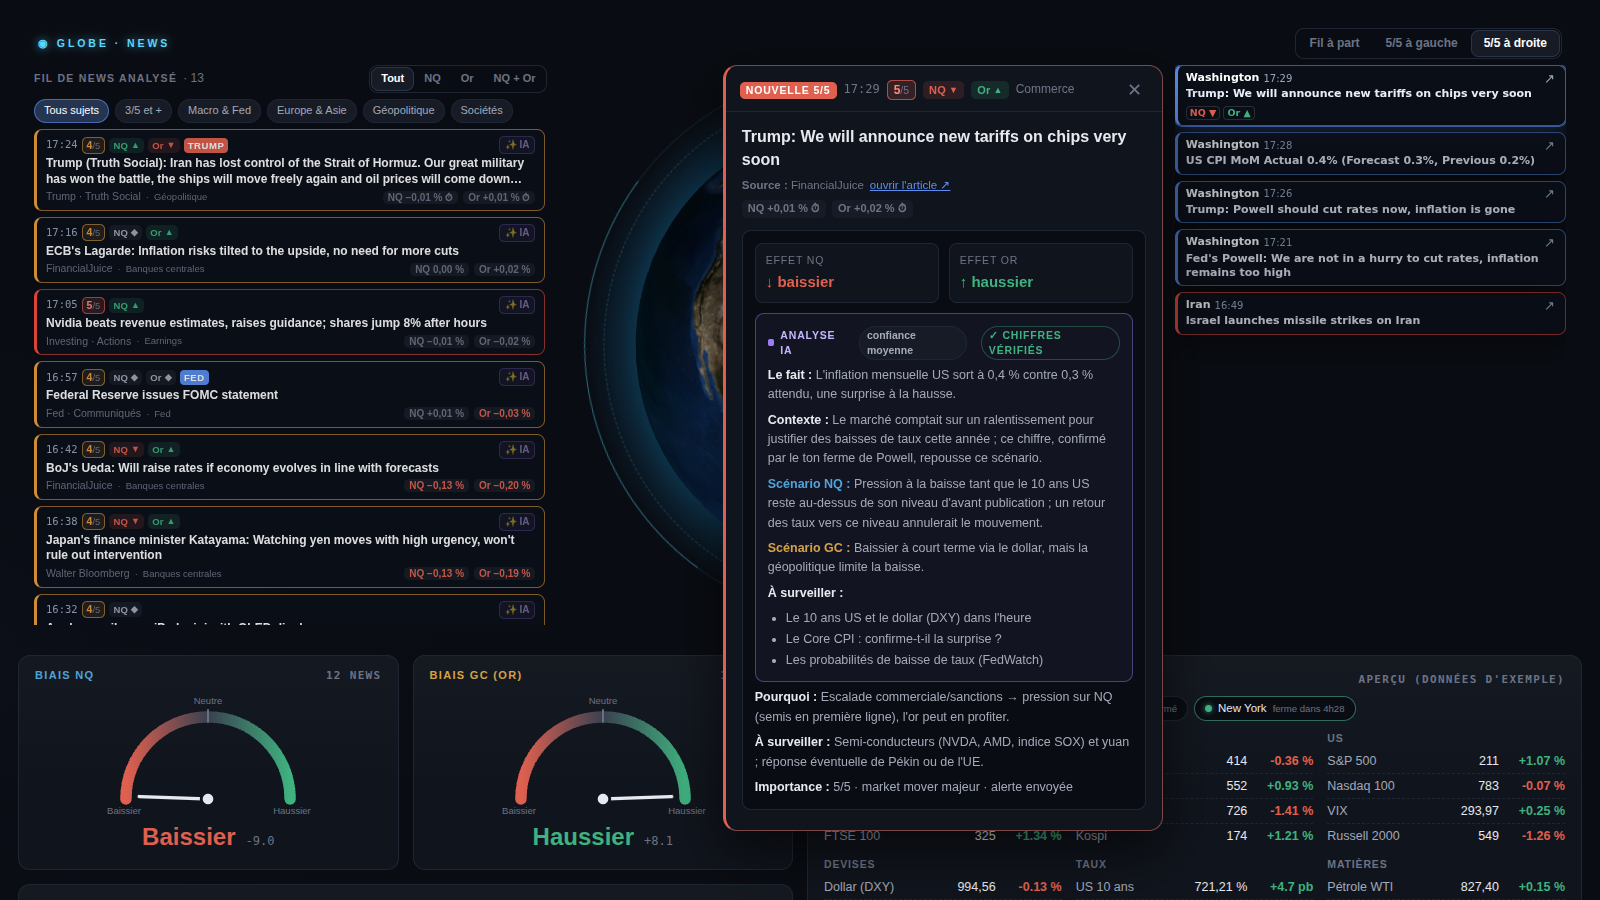
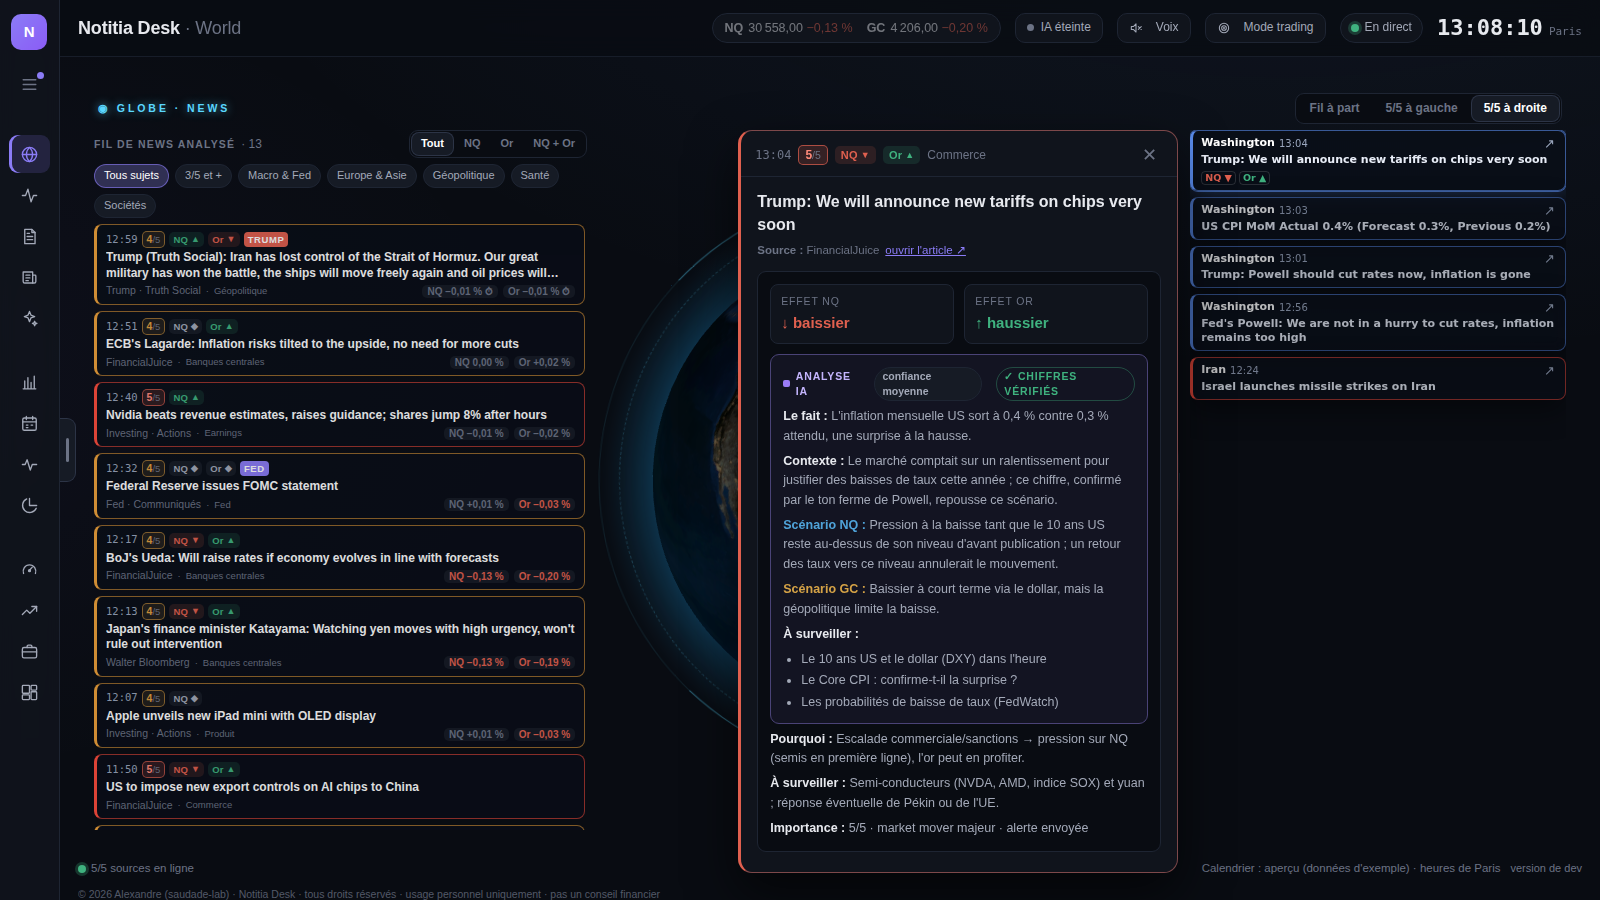
README refait : nouvelles pages (Pouls du marché, Hebdo, Taux directeurs, Biais), menu latéral et nouvelles captures
Claude-Session: https://claude.ai/code/session_01EiPMspAKR6DxkGDXLeGVq1

diff --git a/README.md b/README.md
@@ -3,111 +3,148 @@
 # Notitia Desk
 
 **Ton terminal de marché perso pour trader le Nasdaq (NQ) et l'or (GC).**
-Les news qui comptent, notées et expliquées en temps réel. Le calendrier éco, les banques centrales, les directs de Trump et de la Fed : tout est sur un seul écran.
+Les news qui comptent, notées et expliquées en temps réel. Le calendrier éco, les banques centrales, le risque du moment et le bilan de chaque semaine, chacun à sa place dans un seul desk.
 
-[![Dernière version](https://img.shields.io/github/v/release/saudade-lab/notitia-desk?label=version&color=5B8DEF)](https://github.com/saudade-lab/notitia-desk/releases/latest)
+[![Dernière version](https://img.shields.io/github/v/release/saudade-lab/notitia-desk?label=version&color=8B7CF6)](https://github.com/saudade-lab/notitia-desk/releases/latest)
 ![Windows](https://img.shields.io/badge/Windows-10%20%2F%2011-0078D4?logo=windows&logoColor=white)
 ![macOS](https://img.shields.io/badge/macOS-Apple%20%2B%20Intel-111?logo=apple&logoColor=white)
 ![Gratuit](https://img.shields.io/badge/prix-gratuit-3FB27F)
 ![Sans compte](https://img.shields.io/badge/compte-aucun-6C7385)
 
-<img src="docs/notitia-desk.png" alt="Notitia Desk : bandeaux Trump et Fed, globe des news avec le fil d'un côté et les 5/5 de l'autre" width="100%">
+<img src="docs/desk-world.png" alt="Notitia Desk : le menu ouvert avec toutes les pages, le globe au centre, le fil de news à gauche et les news 5/5 à droite" width="100%">
 
 </div>
 
 ---
 
-## ⬇ Télécharger
+## Télécharger
 
 | | |
 |---|---|
-| 🪟 **Windows** | [**Notitia-Desk.zip**](https://github.com/saudade-lab/notitia-desk/releases/latest/download/Notitia-Desk.zip) |
-| 🍎 **Mac puce Apple** (M1, M2, M3, M4…) | [**Notitia-Desk-mac-arm64.zip**](https://github.com/saudade-lab/notitia-desk/releases/latest/download/Notitia-Desk-mac-arm64.zip) |
-| 🍎 **Mac Intel** | [**Notitia-Desk-mac-intel.zip**](https://github.com/saudade-lab/notitia-desk/releases/latest/download/Notitia-Desk-mac-intel.zip) |
+| **Windows** | [**Notitia-Desk.zip**](https://github.com/saudade-lab/notitia-desk/releases/latest/download/Notitia-Desk.zip) |
+| **Mac puce Apple** (M1, M2, M3, M4…) | [**Notitia-Desk-mac-arm64.zip**](https://github.com/saudade-lab/notitia-desk/releases/latest/download/Notitia-Desk-mac-arm64.zip) |
+| **Mac Intel** | [**Notitia-Desk-mac-intel.zip**](https://github.com/saudade-lab/notitia-desk/releases/latest/download/Notitia-Desk-mac-intel.zip) |
 
-Ton Mac a quelle puce ? Menu  › *À propos de ce Mac*.
+Ton Mac a quelle puce ? Menu Pomme › *À propos de ce Mac*.
 
-Pas d'installation compliquée ni de compte à créer : tu dézippes, tu lances, et le desk s'ouvre dans ton navigateur.
+Pas d'installation compliquée ni de compte à créer : tu dézippes, tu lances, et le desk s'ouvre dans ton navigateur. Les liens ci-dessus donnent toujours la dernière version.
 
 ---
 
-## ✨ Ce que fait le desk
+## Comment c'est organisé
 
-### 🌍 Le globe au centre, les news autour
-Le cœur du desk : une Terre en 3D (vrai jour, vraie nuit) qui tourne toute seule vers l'endroit où une grosse news vient de tomber (Iran, Ormuz, Chine, Ukraine…).
+Le desk s'ouvre sur le **globe** avec les news. Chaque sujet a ensuite sa propre page, dans le menu à gauche. Le menu reste discret (juste des icônes) : tire la petite languette ou clique sur le bouton du haut pour l'élargir et voir le nom et la description de chaque page.
+
+| Section | Pages |
+|---|---|
+| **Intelligence** | World (globe et news) · Pouls du marché · Hebdo · Fil de news · Synthèse IA |
+| **Macro** | Taux directeurs · Calendrier éco · Macro US · Paris (Kalshi / Polymarket) |
+| **Marchés** | Biais NQ / Or · Marchés mondiaux · Earnings · Carte Nasdaq |
+
+Le bouton **Mode trading** en haut ouvre ton écran trading : tu choisis toi-même ce qu'il affiche (globe, news, pouls du marché…).
+
+---
+
+## Les pages
+
+### World : le globe au centre, les news autour
+La page de base. Une Terre en 3D (vrai jour, vraie nuit) qui tourne toute seule vers l'endroit où une grosse news vient de tomber (Iran, Ormuz, Chine, Ukraine…).
 - **D'un côté, les news 5/5** : les vrais market movers, avec le lieu, l'heure et l'effet NQ / or.
-- **De l'autre, tout le fil de news** analysé, que tu fais défiler.
-- Tu choisis où vont les 5/5 : **à gauche** ou **à droite**. Ou bien **« Fil à part »** pour remettre le fil de news dans son propre panneau.
+- **De l'autre, tout le fil de news** analysé, que tu fais défiler et filtres en un clic (NQ, Or, 3/5 et +, Macro & Fed, Géopolitique, Santé, Sociétés…).
+- Tu choisis où vont les 5/5 : à gauche, à droite, ou « Fil à part ».
 
-**Fiche de la news** : quand une nouvelle 5/5 tombe, sa fiche complète s'ouvre toute seule à côté de la colonne. Elle reste jusqu'à ce que tu la fermes (✕). Un clic sur n'importe quelle 5/5 l'ouvre aussi. Dans la fiche :
-- la source, les autres sources qui la confirment et le lien de l'article ;
-- l'effet NQ / or, le pourquoi et ce qu'il faut surveiller ;
-- la réaction du marché dans les minutes qui suivent ;
-- l'analyse IA, ou le bouton pour la lancer.
+Quand une nouvelle 5/5 tombe, sa **fiche complète** s'ouvre à côté : la source et les sources qui la confirment, l'effet NQ / or, le pourquoi, ce qu'il faut surveiller, la réaction du marché dans les minutes qui suivent et l'analyse IA.
 
-<img src="docs/hub-fiche.png" alt="Le globe au centre, le fil de news à gauche, les news 5/5 à droite et la fiche complète d'une nouvelle 5/5" width="100%">
+<img src="docs/hub-fiche.png" alt="La fiche complète d'une news 5/5 à côté du globe" width="100%">
 
-### 📰 Le fil de news, déjà analysé
-Chaque news (FinancialJuice, investingLive, Walter Bloomberg, Truth Social, Fed, BCE, BoJ, BoE, CNBC…) arrive avec :
-- **son heure** et **sa note de 1 à 5**, du bruit au vrai market mover ;
-- **l'actif touché** : NQ ▲ / ▼, Or ▲ / ▼ ;
-- **une explication en une ligne** de l'effet sur le marché, et d'où vient l'info.
+### Pouls du marché : où en est le marché, en chiffres
+Tout ce qu'il faut savoir avant de prendre une position, sur une page :
+- **La synthèse du moment** et **ce qui a changé en 24 h** (risque, VIX, 10 ans, probabilités Fed, biais).
+- **Les chiffres du moment** : NQ, S&P 500, VIX, dollar, taux US, or, euro, yen, Brent, argent, bitcoin, avec la variation du jour, sur 24 h et une mini-courbe. La source et l'heure du dernier prix sont indiquées.
+- **La courbe des taux US** (10 ans − 5 ans, 30 ans − 10 ans) et ce qu'elle veut dire.
+- **Le score de risque sur 100**, calculé à partir du VIX, de la géopolitique, des taux, du biais NQ et de l'agenda. Chaque composante affiche sa vraie valeur et son poids, avec l'historique sur 30 jours.
+- **Le régime macro** (inflation × croissance) avec les derniers chiffres US.
+- **Le biais du desk** NQ / or et les news qui pèsent le plus.
 
-Rien n'est jeté : même les news de bruit (1/5) restent visibles, en plus discret. Tu filtres en un clic : **NQ**, **Or**, **NQ + Or**, **3/5 et +**, ou par sujet (Macro & Fed, Europe & Asie, Géopolitique, Sociétés).
+<img src="docs/pouls.png" alt="Pouls du marché : synthèse, ce qui a changé, chiffres du moment, VIX, score de risque, régime macro" width="100%">
 
-### 🧠 Un moteur de notation qui apprend du marché
-Les notes /5 viennent d'un moteur de règles spécialisé macro. Il n'a pas besoin d'IA et réagit instantanément :
-- **La surprise compte, pas le chiffre** : un CPI à +0,1 point au-dessus du consensus est une vraie surprise, un NFP à +20K c'est du bruit. Chaque chiffre est comparé à sa taille de surprise habituelle.
-- **Vérifié par le marché** : 10 min après chaque news importante, le desk regarde si le NQ et l'or ont bougé dans le sens annoncé (✓ confirmé, ⇄ inverse, calme). Les news contredites par le marché pèsent moins dans le biais.
-- **Il apprend** : si un type de news est souvent contredit par le marché ces dernières semaines, il est noté plus prudemment.
-- **Rumeurs et démentis** : « selon des sources » ou un démenti valent moins qu'une annonce officielle. La même info confirmée par 3 sources monte d'un cran.
+### Hebdo : le bilan de chaque semaine, gardé en mémoire
+- **Le bilan de la semaine**, écrit automatiquement par le desk : risque moyen et pic, performance du NQ, de l'or et du dollar (début → fin, plus haut, plus bas), 10 ans, VIX, thème dominant, décisions de banques centrales et chiffres hors consensus.
+- **Toutes les news 5/5 de la semaine**, classées par jour, avec leur explication et leur effet NQ / or. Elles sont gardées en mémoire (environ 13 mois) : tu cliques sur une semaine passée et tu retrouves son bilan et ses 5/5.
+- **Le jour par jour** (risque, biais NQ et or) et **les chiffres de la semaine** (inflation, emploi, PIB, ISM, décisions de taux, US et zone euro) avec publié / prévu / avant et la surprise.
+- Pour la semaine en cours : **ce qui arrive la semaine prochaine** (réunions de banques centrales, gros chiffres) et les plus forts / plus faibles des marchés.
+- Les **rapports hebdo** rédigés s'affichent en tête de leur semaine.
 
-### 🚨 Les alertes qui comptent vraiment
-- **Focus Trump / Fed / BCE / BoJ** : un post important de Trump sur Truth Social, un communiqué de la Fed ou une décision de taux s'affiche en grand, avec la lecture marché.
-- **Zone rouge** : compte à rebours avant les gros chiffres US (CPI, NFP, PCE, ISM…), pour ne pas te faire surprendre avec une position ouverte.
-- **« Pendant ton absence »** : si ton PC était éteint, un récap des annonces manquées t'attend au retour.
-- **Notifs sur ton téléphone** (appli ntfy) et **lecture à voix haute** en option.
+<img src="docs/hebdo.png" alt="Hebdo : bilan de la semaine, performance NQ / or / dollar, liste des semaines, détail jour par jour" width="100%">
 
-### 📅 Calendrier éco US, Europe et Asie
-Le **prochain chiffre clé** est en tête avec son compte à rebours. Un clic sur un événement ouvre sa fiche, sans faire bouger ta page :
-- avant le chiffre : le prévu, le précédent et **les scénarios** (au-dessus / en ligne / en dessous → effet NQ et or) ;
-- après le chiffre : le réel, la surprise, la lecture Fed et la **réaction du marché** à 1, 5 et 15 min.
+### Taux directeurs : les 8 grandes banques centrales
+Fed, BCE, BoJ, BoE, BNS, BoC, RBA et RBNZ en cartes : taux actuel, dernière décision, compte à rebours jusqu'à la prochaine réunion, ton de leurs communiqués. Pour la Fed : les probabilités du marché pour la prochaine réunion et le biais de chaque membre du comité.
 
-### 📝 La synthèse du marché, avec ou sans IA
-Une note de marché à lire en 30 secondes avant de trader : le thème du moment, le régime macro (inflation, chômage, Fed, 10 ans), le biais NQ et le biais or avec leurs arguments, ce qui arrive et les risques.
-- **Sans IA**, le desk l'écrit lui-même à partir de ses données : chaque phrase vient d'un chiffre ou d'une news du desk. Elle est mise à jour en continu.
+Un clic sur une banque ouvre **sa fiche** :
+- son mandat et sa cible d'inflation ;
+- **la vision du desk** : où en est l'inflation par rapport à la cible, cycle de hausses ou de baisses, ton récent ;
+- **l'historique des taux** en graphique et réunion par réunion ;
+- **les chiffres qu'elle surveille** (inflation, inflation cœur, chômage…) avec publié, prévu, l'écart à la cible et une mini-courbe ;
+- ce qui sort dans les 14 jours et ses derniers communiqués.
+
+<img src="docs/taux.png" alt="Taux directeurs : cartes des banques centrales et fiche de la BCE" width="100%">
+
+### Biais NQ / Or : le sens du marché, expliqué
+Le biais du NQ et de l'or sur une jauge, avec les news qui poussent à la hausse et celles qui poussent à la baisse, et leur poids. En dessous, la lecture de la synthèse : clique sur le biais pour voir comment il est calculé, ou sur une ligne pour retrouver la news d'origine, pourquoi elle pèse et **comment le marché a vraiment réagi** (5 et 15 min). Avec ce qui arrive et les risques à surveiller.
+
+<img src="docs/biais.png" alt="Biais NQ / Or : jauges, news haussières et baissières, explication détaillée d'un point" width="100%">
+
+### Synthèse IA et récaps du desk
+Une note de marché à lire en 30 secondes avant de trader : le thème du moment, le régime macro (inflation, chômage, Fed, 10 ans) et le résumé. Juste en dessous, **le récap du desk** de 8 h et 14 h, en entier : NQ, or, agenda, earnings et risques.
+- **Sans IA**, le desk écrit la synthèse lui-même à partir de ses données, en continu.
 - **Avec une IA**, elle est rédigée par l'IA toutes les heures (voir plus bas).
 
-<img src="docs/synth.png" alt="Synthèse du marché" width="100%">
+<img src="docs/synthese.png" alt="Synthèse du marché et récap du desk" width="100%">
 
-### 🌐 Marchés mondiaux & macro
-- **Marchés mondiaux** : indices Europe / Asie / US, devises, taux, pétrole, or, bitcoin, et les sessions Tokyo / Londres / New York en direct.
+### Calendrier éco US, Europe et Asie
+Le **prochain chiffre clé** est en haut avec son compte à rebours, suivi des prochains gros chiffres. Un clic sur un événement ouvre sa fiche juste en dessous :
+- avant le chiffre : le prévu, le précédent, **les scénarios** (au-dessus / en ligne / en dessous → effet NQ et or) et **les dernières publications** ;
+- après le chiffre : le réel, la surprise, la lecture Fed et la réaction du marché à 1, 5 et 15 min.
+
+<img src="docs/calendrier.png" alt="Calendrier éco : prochain chiffre clé et fiche d'un chiffre" width="100%">
+
+### Marchés, macro et earnings
+- **Marchés mondiaux** : indices Europe / Asie / US, devises, taux, matières premières et bitcoin, avec les variations sur 5 min, 24 h et 48 h. Un clic sur une ligne ouvre ses stats sur 1 an.
 - **Carte du Nasdaq-100** : quels titres tirent ou plombent le NQ, en points d'indice.
-- **Environnement macro US** : inflation, PCE, chômage, PIB, taux Fed, 10 ans, courbe… avec une lecture « en clair » de ce que ça veut dire pour le NQ et l'or.
-- **Ce que parie le marché** : les probabilités Kalshi / Polymarket (décision Fed, CPI, récession…).
+- **Macro US** : inflation, PCE, chômage, PIB, taux Fed, 10 ans… avec la courbe et les stats au clic, et une lecture « en clair » pour le NQ et l'or.
+- **Earnings** des gros poids du Nasdaq, semaine par semaine, avec la fiche de chaque société : attentes, derniers trimestres et santé de la boîte.
+- **Paris** : ce que parie le marché sur Kalshi / Polymarket (décision Fed, CPI, récession…).
 
-<img src="docs/world.png" alt="Marchés mondiaux" width="680">
+<img src="docs/marches.png" alt="Marchés mondiaux" width="100%">
 <img src="docs/heatmap.png" alt="Carte du Nasdaq-100" width="100%">
-<img src="docs/macro.png" alt="Environnement macro US" width="100%">
+<img src="docs/earnings.png" alt="Earnings du Nasdaq-100" width="100%">
 
-### 💼 Earnings des gros poids du Nasdaq
-Les dates des résultats (Nvidia, Apple, Microsoft, Meta, Tesla…) avec leur poids dans l'indice. Chaque société a sa fiche : attentes, 3 derniers trimestres et santé de la boîte.
+---
 
-### 🎙 Les directs de Trump et de la Fed
-Colle le lien d'un direct YouTube : le desk l'affiche dans une fenêtre flottante, le transcrit et sort **les phrases clés qui touchent l'économie**, puis fait un récap à la fin.
+## Sous le capot
 
-### 🤖 L'IA (optionnelle) : un stratégiste macro qui ne s'invente rien
+### Un moteur de notation qui apprend du marché
+Les notes /5 viennent d'un moteur de règles spécialisé macro. Il n'a pas besoin d'IA et réagit instantanément :
+- **La surprise compte, pas le chiffre** : un CPI à +0,1 point au-dessus du consensus est une vraie surprise, un NFP à +20K c'est du bruit.
+- **Vérifié par le marché** : 10 min après chaque news importante, le desk regarde si le NQ et l'or ont bougé dans le sens annoncé. Les news contredites pèsent moins dans le biais.
+- **Il apprend** : un type de news souvent contredit ces dernières semaines est noté plus prudemment.
+- **Rumeurs et démentis** valent moins qu'une annonce officielle. La même info confirmée par 3 sources monte d'un cran.
+
+Les sources : FinancialJuice, investingLive, Walter Bloomberg, Truth Social, CNBC, Fed, BCE, BoJ, BoE, BNS, BoC, RBA, et les sources géopolitiques et santé (épidémies).
+
+### Les alertes qui comptent vraiment
+- **Focus Trump / Fed / BCE / BoJ** : un post important de Trump, un communiqué de la Fed ou une décision de taux s'affiche en grand, avec la lecture marché.
+- **Zone rouge** : compte à rebours avant les gros chiffres US (CPI, NFP, PCE, ISM…).
+- **« Pendant ton absence »** : si ton PC était éteint, un récap des annonces manquées t'attend.
+- **Notifs sur ton téléphone** (appli ntfy) et **lecture à voix haute** en option.
+- **Directs Trump et Fed** : colle le lien d'un direct YouTube, le desk le transcrit, sort les phrases clés qui touchent l'économie et fait un récap à la fin.
+
+### L'IA (optionnelle) : un stratégiste macro qui ne s'invente rien
 - **Synthèse du marché** toutes les heures, avec un biais NQ et or.
-- **Analyse poussée** d'une news : le fait, la surprise, la lecture Fed, le canal (taux, dollar, risque, refuge), le scénario NQ, le scénario or, ce qui l'annulerait et ce qu'il faut surveiller.
-- **Directs Trump / Fed** : les phrases clés et le récap de fin.
+- **Analyse poussée** d'une news : le fait, la surprise, la lecture Fed, le canal (taux, dollar, risque, refuge), les scénarios NQ et or, ce qui les annulerait.
+- **Chiffres vérifiés** : chaque chiffre et chaque heure écrits par l'IA sont comparés aux données du desk. Un chiffre introuvable, c'est une phrase corrigée ou retirée, et le desk te le signale.
 
-L'IA travaille comme un stratégiste de salle de marché :
-- **Elle voit tout le desk** : prix, taux, dollar, régime macro, anticipations Fed, chiffres sortis, déclarations et agenda.
-- **Elle suit une méthode macro fixe** : fait → surprise → Fed → canal → scénarios.
-- **La surprise d'un chiffre est calculée par le desk**, jamais laissée à l'IA.
-- **✓ Chiffres vérifiés** : chaque chiffre et chaque heure écrits par l'IA sont comparés aux données du desk. Un chiffre introuvable, c'est une phrase corrigée ou retirée, et le desk te le signale.
-
-Chacun branche **sa propre IA, avec sa propre clé**. Ça se passe dans le menu **Mon IA** (bouton IA en haut du desk → *Changer*) :
+Chacun branche **sa propre IA, avec sa propre clé**, dans le menu **Mon IA** (bouton IA en haut du desk → *Changer*) :
 
 | IA | Prix indicatif | Pour qui |
 |---|---|---|
@@ -119,36 +156,21 @@ Chacun branche **sa propre IA, avec sa propre clé**. Ça se passe dans le menu 
 | **Groq** | palier gratuit limité | ultra rapide |
 | **OpenRouter** | selon le modèle | une seule clé pour presque toutes les IA |
 
-Comment ça marche :
-1. Tu colles ta clé dans le menu Mon IA.
-2. Le desk affiche la liste des modèles dispo sur ton compte, tu choisis.
-3. Tu cliques sur **Tester et utiliser** : ça bascule tout de suite, sans redémarrer.
+Tu colles ta clé, tu choisis le modèle dans la liste, tu cliques sur **Tester et utiliser** : ça bascule tout de suite, sans redémarrer. Ta clé reste sur ton PC (dossier AppData) : jamais dans le dossier de l'app, le zip ou GitHub.
 
-🔒 Ta clé reste sur ton PC (dossier AppData) : jamais dans le dossier de l'app, le zip ou GitHub, et elle n'est jamais réaffichée.
+Les alertes et les notes /5 ne dépendent jamais de l'IA : elles restent instantanées, même sans clé.
 
-Les alertes et les notes /5 ne dépendent jamais de l'IA : elles restent instantanées, même sans clé ou sans solde.
-
-### 🧩 Ton desk, ta disposition
-Clique sur **Disposition** en haut du desk :
-- **Déplace** les panneaux, **retire-les** et remets-les quand tu veux.
-- **Hauteur et largeur** de chaque panneau à la souris. Deux panneaux à 50 % se mettent côte à côte.
-- **Globe** : règle sa hauteur, la largeur du fil / du globe / des 5/5, et la taille de la Terre (− / ＋ ou molette).
-- **Hors mode disposition**, rien ne bouge par erreur. Tout est gardé sur ton PC, et « Réinitialiser » remet le desk d'origine.
-
-<img src="docs/layout.png" alt="Mode disposition : poignées pour la taille du globe et la largeur des colonnes" width="100%">
-
-### 🧰 Et aussi
-- **Récaps du desk** à 8h et 14h.
-- **Mode trading** : une vue épurée avec juste le biais, les grosses news, le globe et le prochain chiffre.
+### Et aussi
+- **Écran trading à composer** : bouton **Mode trading**, puis **Disposition** pour déplacer, redimensionner ou retirer les panneaux.
 - **Sur ton téléphone** : le desk s'affiche aussi sur ton tel (voir plus bas).
-- **NinjaTrader 8** : prix en direct, réaction du marché à chaque news et vérification des lectures.
+- **NinjaTrader 8** : prix en direct, réaction du marché à chaque news et vérification des lectures. Sans NinjaTrader, les prix viennent de Yahoo Finance (différés).
 
 ---
 
-## 🛠 Installation
+## Installation
 
 <details open>
-<summary><b>🪟 Windows (2 min)</b></summary>
+<summary><b>Windows (2 min)</b></summary>
 
 1. Dézippe le dossier `Notitia-Desk` où tu veux (par exemple sur le Bureau).
 2. Double-clique sur **NotitiaDesk.exe**. Si Windows affiche « Windows a protégé votre ordinateur », clique sur *Informations complémentaires* → *Exécuter quand même*.
@@ -158,7 +180,7 @@ Le fichier **LISEZMOI.txt** du dossier explique le reste : notifs sur téléphon
 </details>
 
 <details>
-<summary><b>🍎 Mac (3 min)</b></summary>
+<summary><b>Mac (3 min)</b></summary>
 
 1. Double-clique sur le zip : un dossier `Notitia-Desk` apparaît. Range-le où tu veux (par exemple dans Documents).
 2. **Première fois seulement** : ouvre l'app **Terminal**, tape `bash ` (avec un espace), glisse le fichier `lancer.sh` du dossier dans la fenêtre, puis Entrée. Ça débloque l'app (macOS bloque les apps qui ne viennent pas de l'App Store) et ça la lance.
@@ -169,7 +191,7 @@ Sur Mac, les prix viennent de Yahoo Finance (différés d'environ 10 min), car N
 </details>
 
 <details>
-<summary><b>📱 Sur ton téléphone</b></summary>
+<summary><b>Sur ton téléphone</b></summary>
 
 Le desk tourne sur ton PC, et ton téléphone l'affiche dans son navigateur.
 
@@ -179,7 +201,7 @@ Le desk tourne sur ton PC, et ton téléphone l'affiche dans son navigateur.
 4. Ajoute la page à l'écran d'accueil pour l'ouvrir comme une appli.
 </details>
 
-### 🔄 Mises à jour
+### Mises à jour
 Elles sont automatiques : quand une nouvelle version sort, un bandeau apparaît dans le desk. Un clic sur **Installer** et c'est fait, tes réglages sont gardés.
 
 ---
